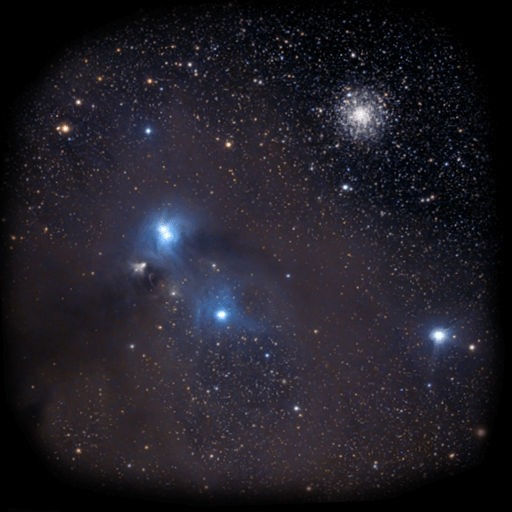
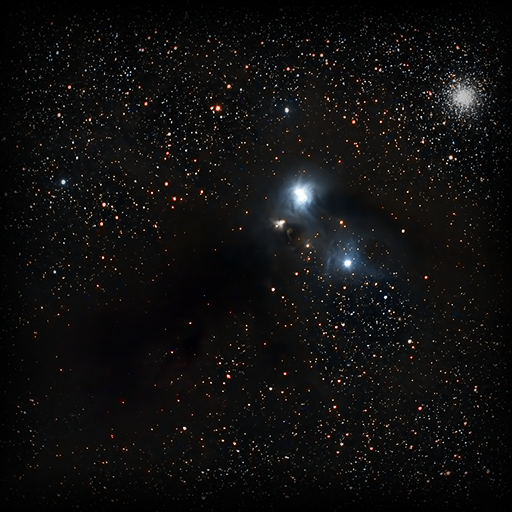
updated and Added 6 DSO textures (#780)
* updated and Added 6 DSO textures

updated and Added 6 DSO textures.

* DeletedFrosty Leo.

 Because CC 2.0 license is not compatible with GPLv2

diff --git a/CREDITS.md b/CREDITS.md
@@ -321,7 +321,7 @@
 	    right to modify and redistribute) "as long as it is credited."
 	4.8 M31 pictures come from LEE ang HG731GZ
 	    License: Creative Commons Attribution 3.0 Unported
-	4.9 Images of Sh2-261
+	4.9 Images of NGC6544, NGC6553, Sh2-261
 	    from Yang Kai
 	    License: public domain 
 	4.10 Images of M1, M27, M42, M57, M97, NGC6946 from Stephane
@@ -564,7 +564,7 @@
 	     from ESO, F. Ferraro (University of Bologna)
 	     http://eso.org/public/
 	     License: Creative Commons Attribution 4.0 International 
-	4.72 Images of NGC6914
+	4.72 Images of NGC6914, SH2-80, SH2-106
 	     from Cristina Cellini
 	     https://commons.wikimedia.org/wiki/
 	     License: Creative Commons Attribution 4.0 International
